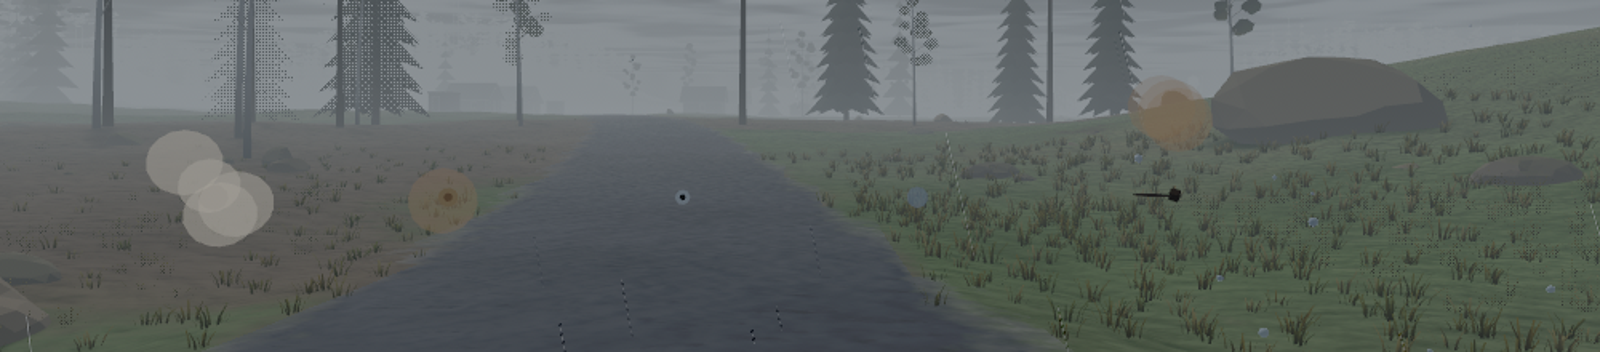
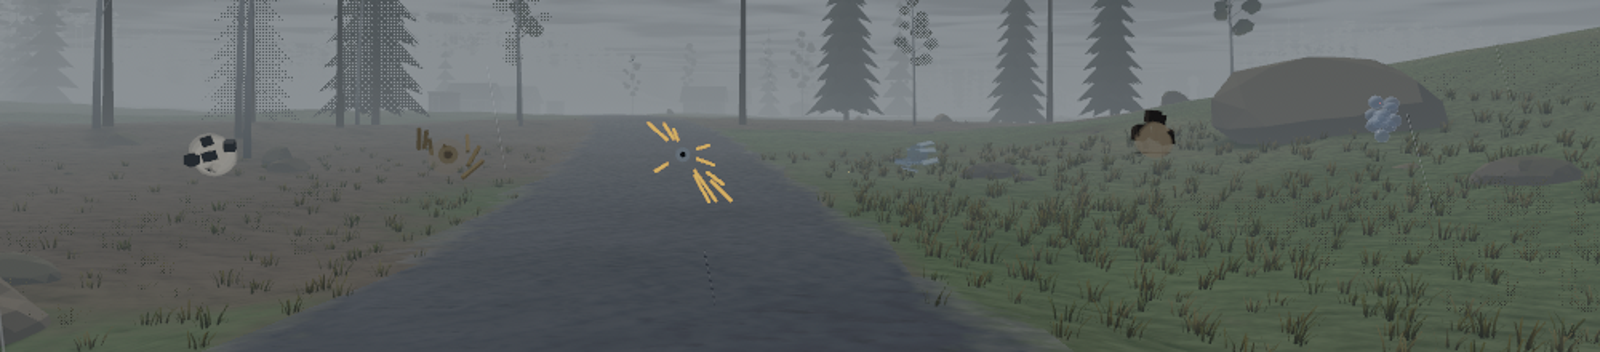
Robot hits read by part, and whether they hurt
An Impact on a robot carries the part's role and whether the round hurt
it (classified inside the ballistics set, before the robots take the
damage). A hurt core or weapon throws sparks and a shower of shell
flakes, a sensor fizzes cyan with bits of lens, a leg or rotor sprays
oil, a gas cell puffs; a round off a dead part only glances. Screenshots
of both tables in docs/shots/weapon-feel/.

Claude-Session: https://claude.ai/code/session_01BK2jqRVHg2vuktbZkG3odU

diff --git a/src/weapons/impacts.rs b/src/weapons/impacts.rs
@@ -89,15 +89,23 @@ pub struct Impact {
     pub entity: Option<Entity>,
     /// It's a static surface that can wear a mark.
     pub decal: bool,
+    /// On a robot: which part, and whether the round hurt it (a live
+    /// part takes damage; a dead one just rings).
+    pub part: Option<crate::robots::PartRole>,
+    pub hurt: bool,
 }
 
 pub struct ImpactPlugin;
 
 impl Plugin for ImpactPlugin {
     fn build(&self, app: &mut App) {
+        // Inside the ballistics set, so robot parts are read before the
+        // robots take the damage.
         app.add_message::<Impact>().add_systems(
             FixedUpdate,
-            classify_hits.after(super::ballistics::BallisticsSystems),
+            classify_hits
+                .in_set(super::ballistics::BallisticsSystems)
+                .after(super::ballistics::fly_projectiles),
         );
     }
 }
@@ -107,7 +115,7 @@ impl Plugin for ImpactPlugin {
 fn classify_hits(
     mut hits: MessageReader<Hit>,
     mut out: MessageWriter<Impact>,
-    parts: Query<(), With<crate::robots::RobotPart>>,
+    parts: Query<&crate::robots::RobotPart>,
     trees: Query<(), With<crate::world::trees::TreeTrunks>>,
     structures: Query<(), With<crate::world::structures::Structure>>,
     items: Query<(), With<crate::items::Item>>,
@@ -119,9 +127,10 @@ fn classify_hits(
             .get(h.entity)
             .ok()
             .and_then(|(gt, surf)| surf.at(gt, h.point));
+        let part = parts.get(h.entity).ok();
         let (kind, decal) = if bodies.contains(h.entity) {
             (ImpactKind::Body, false)
-        } else if parts.contains(h.entity) {
+        } else if part.is_some() {
             (ImpactKind::Robot, false)
         } else if items.contains(h.entity) {
             (ImpactKind::Metal, false)
@@ -141,6 +150,8 @@ fn classify_hits(
             velocity: h.velocity,
             entity: Some(h.entity),
             decal: decal && kind.marks(),
+            part: part.map(|p| p.role),
+            hurt: part.is_some_and(|p| p.alive()),
         });
     }
 }
@@ -226,6 +237,10 @@ struct FxAssets {
     pale_rim: Handle<StandardMaterial>,
     bright_pock: Handle<StandardMaterial>,
     soil_mark: Handle<StandardMaterial>,
+    flake: Handle<StandardMaterial>,
+    fizz: Handle<StandardMaterial>,
+    oil: Handle<StandardMaterial>,
+    gas: Handle<StandardMaterial>,
 }
 
 #[derive(Resource)]
@@ -286,6 +301,10 @@ fn fx_assets(
         pale_rim: m(0.8, 0.7, 0.52, 1.0, 0.0, 0.9, 0.0),
         bright_pock: m(0.78, 0.78, 0.76, 1.0, 0.0, 0.3, 1.0),
         soil_mark: m(0.16, 0.12, 0.09, 1.0, 0.0, 1.0, 0.0),
+        flake: m(0.3, 0.32, 0.3, 1.0, 0.0, 0.5, 0.8),
+        fizz: m(0.55, 0.85, 1.0, 1.0, 8.0, 1.0, 0.0),
+        oil: m(0.05, 0.04, 0.03, 1.0, 0.0, 0.08, 0.0),
+        gas: m(0.8, 0.82, 0.8, 0.3, 0.001, 1.0, 0.0),
     };
     commands.insert_resource(assets);
 }
@@ -324,6 +343,100 @@ const SPRAY: Spray = Spray {
     align: false,
     spin: 0.0,
 };
+
+/// A robot hit, by the part and whether it hurt: what it hurt shows
+/// (fragments off armour, a fizzing short off a sensor, oil from a joint,
+/// gas from a cell); a round off a dead part only glances.
+fn robot_recipe(part: Option<crate::robots::PartRole>, hurt: bool) -> Vec<Spray> {
+    use crate::robots::PartRole;
+    let sparks = |n| Spray {
+        n,
+        mat: |a| a.spark.clone(),
+        size: Vec3::new(0.005, 0.005, 0.1),
+        out: 3.0,
+        scatter: 3.5,
+        carry: 4.0,
+        life: 0.22,
+        align: true,
+        ..SPRAY
+    };
+    if !hurt {
+        return vec![Spray {
+            carry: 6.0,
+            out: 1.0,
+            ..sparks(4)
+        }];
+    }
+    match part {
+        Some(PartRole::Sensor) => vec![
+            Spray {
+                n: 12,
+                mat: |a| a.fizz.clone(),
+                size: Vec3::new(0.004, 0.004, 0.06),
+                out: 1.0,
+                scatter: 1.6,
+                life: 0.55,
+                gravity: 2.0,
+                drag: 1.5,
+                align: true,
+                ..SPRAY
+            },
+            Spray {
+                n: 3,
+                mat: |a| a.shard.clone(),
+                size: Vec3::new(0.025, 0.003, 0.02),
+                out: 1.5,
+                scatter: 1.0,
+                life: 0.8,
+                spin: 18.0,
+                ..SPRAY
+            },
+        ],
+        Some(PartRole::Leg(_) | PartRole::Rotor(_)) => vec![
+            sparks(5),
+            Spray {
+                n: 8,
+                mesh: |a| a.ball.clone(),
+                mat: |a| a.oil.clone(),
+                size: Vec3::splat(0.022),
+                out: 2.0,
+                scatter: 1.2,
+                life: 0.9,
+                ..SPRAY
+            },
+        ],
+        Some(PartRole::GasCell(_)) => vec![
+            sparks(3),
+            Spray {
+                n: 3,
+                mesh: |a| a.ball.clone(),
+                mat: |a| a.gas.clone(),
+                size: Vec3::splat(0.1),
+                out: 1.5,
+                scatter: 0.5,
+                life: 1.4,
+                grow: 3.0,
+                gravity: -0.5,
+                drag: 1.5,
+                ..SPRAY
+            },
+        ],
+        // The core, a weapon, the shell: sparks and a shower of fragments.
+        _ => vec![
+            sparks(10),
+            Spray {
+                n: 6,
+                mat: |a| a.flake.clone(),
+                size: Vec3::new(0.022, 0.004, 0.02),
+                out: 2.5,
+                scatter: 2.0,
+                life: 0.9,
+                spin: 22.0,
+                ..SPRAY
+            },
+        ],
+    }
+}
 
 fn recipe(kind: ImpactKind) -> Vec<Spray> {
     let puff = |mat: fn(&FxAssets) -> Handle<StandardMaterial>, n| Spray {
@@ -430,7 +543,12 @@ fn spawn_fx(
         let dir = imp.velocity.normalize_or_zero();
         // Off the surface, the way a round glances.
         let glance = (dir - 2.0 * dir.dot(n) * n).normalize_or(n);
-        for s in recipe(imp.kind) {
+        let sprays = if imp.kind == ImpactKind::Robot {
+            robot_recipe(imp.part, imp.hurt)
+        } else {
+            recipe(imp.kind)
+        };
+        for s in sprays {
             for _ in 0..s.n {
                 let rand = Vec3::new(
                     pool.rng.range(-1.0, 1.0),
@@ -643,6 +761,35 @@ mod tests {
         ] {
             assert!(recipe(k).iter().map(|s| s.n).sum::<usize>() > 0, "{k:?}");
         }
+    }
+
+    /// A round that hurts a robot shows it, differently by part; one off a
+    /// dead part only glances (a few sparks, nothing torn off).
+    #[test]
+    fn robot_hits_read_by_part_and_harm() {
+        use crate::robots::PartRole;
+        let n = |v: Vec<Spray>| v.iter().map(|s| s.n).sum::<usize>();
+        let glance = n(robot_recipe(Some(PartRole::Core), false));
+        for p in [
+            PartRole::Core,
+            PartRole::Sensor,
+            PartRole::Weapon,
+            PartRole::Leg(0),
+            PartRole::Rotor(0),
+            PartRole::GasCell(0),
+        ] {
+            assert!(n(robot_recipe(Some(p), true)) > glance, "{p:?}");
+        }
+        // Each hurt part has something of its own beyond sparks.
+        let mats = |p| {
+            robot_recipe(Some(p), true)
+                .iter()
+                .map(|s| s.mat as usize)
+                .collect::<std::collections::HashSet<_>>()
+        };
+        assert_ne!(mats(PartRole::Sensor), mats(PartRole::Core));
+        assert_ne!(mats(PartRole::Leg(0)), mats(PartRole::Core));
+        assert_ne!(mats(PartRole::GasCell(0)), mats(PartRole::Leg(0)));
     }
 
     /// However long the firefight, the pools never hold more than their

diff --git a/src/weapons/ballistics.rs b/src/weapons/ballistics.rs
@@ -165,7 +165,7 @@ fn fire_shots(
     }
 }
 
-fn fly_projectiles(
+pub(crate) fn fly_projectiles(
     mut commands: Commands,
     mut projectiles: Query<(Entity, &mut Projectile, &mut Transform)>,
     spatial: SpatialQuery,
@@ -224,6 +224,8 @@ fn fly_projectiles(
                 velocity: p.velocity,
                 entity: None,
                 decal: false,
+                part: None,
+                hurt: false,
             });
             commands.entity(e).despawn();
             continue;
